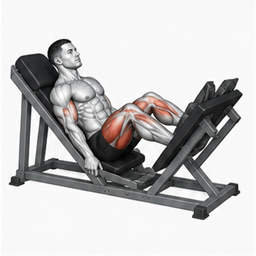
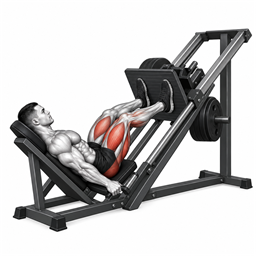
fix: correct leg press exercise illustrations

diff --git a/src/domain/training/exercise-library.test.ts b/src/domain/training/exercise-library.test.ts
@@ -7,7 +7,7 @@ describe('catálogo expandido de exercícios', () => {
     const names = BASE_EXERCISES.map((exercise) => exercise.normalizedName);
     expect(new Set(ids).size).toBe(ids.length);
     expect(new Set(names).size).toBe(names.length);
-    expect(BASE_EXERCISES).toHaveLength(243);
+    expect(BASE_EXERCISES).toHaveLength(244);
     expect(ids.slice(0, 52)).toEqual(Array.from({ length: 52 }, (_, index) => `defyn-exercise-${String(index + 1).padStart(2, '0')}`));
   });
 
@@ -68,6 +68,17 @@ describe('catálogo expandido de exercícios', () => {
       name: 'Tríceps testa na máquina',
       primaryMuscle: 'triceps',
       equipment: ['machine'],
+    }));
+  });
+
+  it('diferencia o leg press 45° do leg press articulado', () => {
+    expect(searchExercises(BASE_EXERCISES, 'leg press 45')).toContainEqual(expect.objectContaining({
+      id: 'defyn-exercise-31',
+      name: 'Leg press 45°',
+    }));
+    expect(searchExercises(BASE_EXERCISES, 'leg press articulado')).toContainEqual(expect.objectContaining({
+      id: 'defyn-exercise-335',
+      name: 'Leg press articulado',
     }));
   });
 

diff --git a/src/domain/training/exercise-library.ts b/src/domain/training/exercise-library.ts
@@ -60,7 +60,7 @@ const rows: readonly ExerciseSeed[] = [...originalRows, ...EXTENDED_EXERCISE_ROW
 
 // The public catalog only exposes exercises that have their own reviewed thumbnail.
 // IDs remain based on the complete seed list so existing plans never change meaning.
-const illustratedTailIds = new Set(['defyn-exercise-239', 'defyn-exercise-241', 'defyn-exercise-242', 'defyn-exercise-243', 'defyn-exercise-249', 'defyn-exercise-333', 'defyn-exercise-334']);
+const illustratedTailIds = new Set(['defyn-exercise-239', 'defyn-exercise-241', 'defyn-exercise-242', 'defyn-exercise-243', 'defyn-exercise-249', 'defyn-exercise-333', 'defyn-exercise-334', 'defyn-exercise-335']);
 
 export function normalizeExerciseName(value: string): string {
   return value.normalize('NFD').replace(/[\u0300-\u036f]/g, '').toLocaleLowerCase('pt-BR').replace(/\s+/g, ' ').trim();

diff --git a/src/infrastructure/indexed-db/migration-v4.test.ts b/src/infrastructure/indexed-db/migration-v4.test.ts
@@ -4,5 +4,5 @@ import { DATABASE_VERSION } from './database';
 
 describe('migration v3 → v4', () => {
   it('preserva a versão 4 na cadeia sem apagar dados anteriores', () => { expect(DATABASE_VERSION).toBeGreaterThanOrEqual(4); });
-  it('mantém catálogo base fora da migration e com ids estáveis', () => { expect(BASE_EXERCISES[0]?.id).toBe('defyn-exercise-01'); expect(BASE_EXERCISES[51]?.id).toBe('defyn-exercise-52'); expect(BASE_EXERCISES.length).toBe(243); });
+  it('mantém catálogo base fora da migration e com ids estáveis', () => { expect(BASE_EXERCISES[0]?.id).toBe('defyn-exercise-01'); expect(BASE_EXERCISES[51]?.id).toBe('defyn-exercise-52'); expect(BASE_EXERCISES.length).toBe(244); });
 });

diff --git a/src/domain/training/exercise-catalog-extended.ts b/src/domain/training/exercise-catalog-extended.ts
@@ -312,7 +312,8 @@ export const EXTENDED_EXERCISE_ROWS: readonly ExerciseSeed[] = [
   ['Flexão cervical com elástico', 'neck', ['band'], 'isolation'],
   ['Extensão cervical com elástico', 'neck', ['band'], 'isolation'],
 
-  // Aquecimento e saúde dos ombros (adicionado ao final para preservar IDs existentes)
+  // Adicionados ao final para preservar todos os IDs existentes.
   ['Aquecimento de manguito rotador na polia', 'rotator-cuff', ['cable'], 'isolation', ['rear-delts']],
   ['Tríceps testa na máquina', 'triceps', ['machine'], 'isolation'],
+  ['Leg press articulado', 'quadriceps', ['leg-press'], 'squat', ['glutes', 'hamstrings']],
 ] as const;

diff --git a/docs/EXERCISE_LIBRARY.md b/docs/EXERCISE_LIBRARY.md
@@ -1,6 +1,6 @@
 # Biblioteca de exercícios
 
-O catálogo publicado possui **243 exercícios de uso frequente**, cobrindo peitoral, costas/dorsais, lombar, trapézio, deltoides, manguito rotador, braços, quadríceps, posteriores, glúteos, panturrilhas, adutores e core.
+O catálogo publicado possui **244 exercícios de uso frequente**, cobrindo peitoral, costas/dorsais, lombar, trapézio, deltoides, manguito rotador, braços, quadríceps, posteriores, glúteos, panturrilhas, adutores e core.
 
 As variações são itens independentes para preservar histórico e carga próprios. O catálogo diferencia barra, barra W, trap bar, halteres, kettlebell, máquina, polia, Smith, landmine, leg press, peso corporal, elástico, fita de suspensão, argolas, medicine ball, bola suíça, roda abdominal, anilha, step, trenó e corda naval. Os 52 IDs originais foram preservados para manter fichas e históricos existentes compatíveis.
 
@@ -8,7 +8,7 @@ Cada `Exercise` possui nome normalizado, músculo principal/secundários, equipa
 
 ## Imagens e fallbacks
 
-Cada um dos 243 exercícios publicados possui seu próprio arquivo PNG, correspondente ao nome, movimento e equipamento. As miniaturas usam anatomia em tons de cinza, equipamento grafite e músculo principal em coral discreto. Não há reutilização de uma miniatura entre exercícios diferentes nem hotlink. `thumbnailMediaId` e `imageMediaId` continuam disponíveis para exercícios próprios.
+Cada um dos 244 exercícios publicados possui seu próprio arquivo PNG, correspondente ao nome, movimento e equipamento. As miniaturas usam anatomia em tons de cinza, equipamento grafite e músculo principal em coral discreto. Não há reutilização de uma miniatura entre exercícios diferentes nem hotlink. `thumbnailMediaId` e `imageMediaId` continuam disponíveis para exercícios próprios.
 
 ## Exercícios próprios e favoritos
 

diff --git a/docs/EXERCISE_ASSETS.md b/docs/EXERCISE_ASSETS.md
@@ -5,9 +5,9 @@ As ilustrações de exercícios são **ativos originais DEFYN**. Não foram copi
 ## Estratégia
 
 - Miniaturas PNG anatômicas originais geradas localmente, recortadas em `src/assets/exercises/generated/thumbnails/`; não há requisição de imagem nem hotlink.
-- O manifesto `exercise-media.ts` preserva os metadados das 52 ilustrações originais; `exercise-images.ts` carrega em build-time o PNG exclusivo de cada um dos 243 exercícios publicados.
+- O manifesto `exercise-media.ts` preserva os metadados das 52 ilustrações originais; `exercise-images.ts` carrega em build-time o PNG exclusivo de cada um dos 244 exercícios publicados.
 - Os ativos são estáticos do aplicativo, não entram no IndexedDB nem nos backups. Como fazem parte do bundle, já estão disponíveis no cache do app instalado/offline.
-- As 243 miniaturas PNG entram no precache estático; mídia de exercício personalizada continua pessoal no IndexedDB e não é adicionada ao service worker.
+- As 244 miniaturas PNG entram no precache estático; mídia de exercício personalizada continua pessoal no IndexedDB e não é adicionada ao service worker.
 - Exercícios personalizados conservam `thumbnailMediaId`/`imageMediaId`; iniciais aparecem apenas para exercícios próprios sem mídia ou referências indisponíveis.
 
 ## Matriz de cobertura

diff --git a/docs/ARCHITECTURE.md b/docs/ARCHITECTURE.md
@@ -49,6 +49,6 @@ Uma instalação vazia faz pull inicial antes de montar o app. Dados estruturado
 
 ## PWA
 
-Vite carrega Diário, Treinos, Progresso, Rotina e Backup por chunks. Workbox precacheia shell, chunks, CSS, fontes, ícones e 243 miniaturas de exercícios; nunca mídia pessoal. `autoUpdate` adia reload durante sessão de academia, bootstrap, sync crítico, conflito ou fluxos críticos já existentes.
+Vite carrega Diário, Treinos, Progresso, Rotina e Backup por chunks. Workbox precacheia shell, chunks, CSS, fontes, ícones e 244 miniaturas de exercícios; nunca mídia pessoal. `autoUpdate` adia reload durante sessão de academia, bootstrap, sync crítico, conflito ou fluxos críticos já existentes.
 
 Mídia segue `Blob local → outbox media_metadata → Storage privado → metadata remota`. No recebimento, metadata chega pelo pull incremental; avatar baixa primeiro, fotos recentes em background limitado e histórico sob demanda. O dashboard nunca aguarda foto histórica. Validação de assinatura/MIME acontece tanto no upload quanto no download.

diff --git a/docs/OFFLINE_STRATEGY.md b/docs/OFFLINE_STRATEGY.md
@@ -1,6 +1,6 @@
 # Estratégia offline
 
-O build precacheia o shell HTML/CSS/JS, chunks lazy, fontes, ícones PWA e 243 miniaturas de exercícios. `cleanupOutdatedCaches` remove gerações antigas e o fallback de navegação usa `index.html`.
+O build precacheia o shell HTML/CSS/JS, chunks lazy, fontes, ícones PWA e 244 miniaturas de exercícios. `cleanupOutdatedCaches` remove gerações antigas e o fallback de navegação usa `index.html`.
 
 Mídia pessoal não entra no Workbox: fotos baixadas ficam como Blob no IndexedDB. Avatar é priorizado no primeiro pull; fotos recentes baixam com concorrência limitada e o histórico é solicitado sob demanda. Depois do cache, todas abrem offline. Assets OCR, modelo de idioma, worker e wasm foram removidos na Etapa 07.
 
